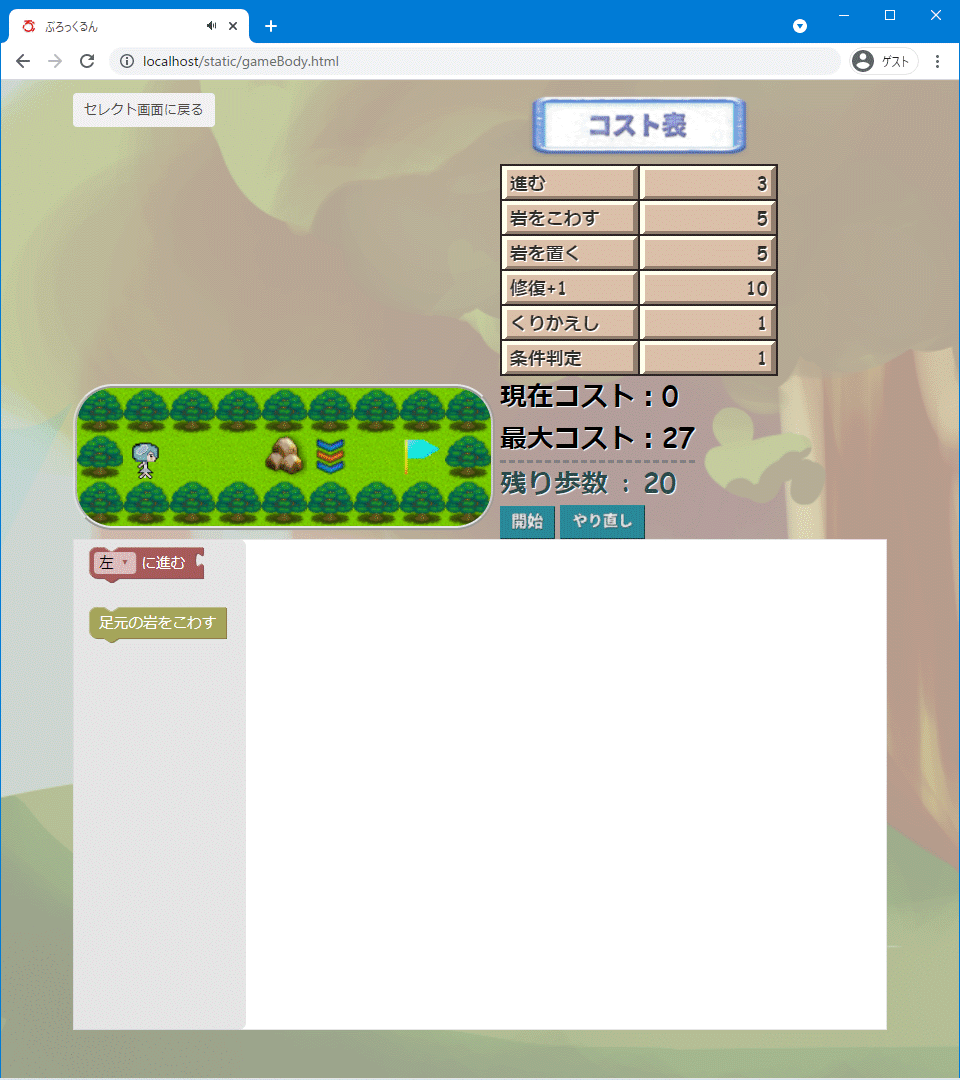
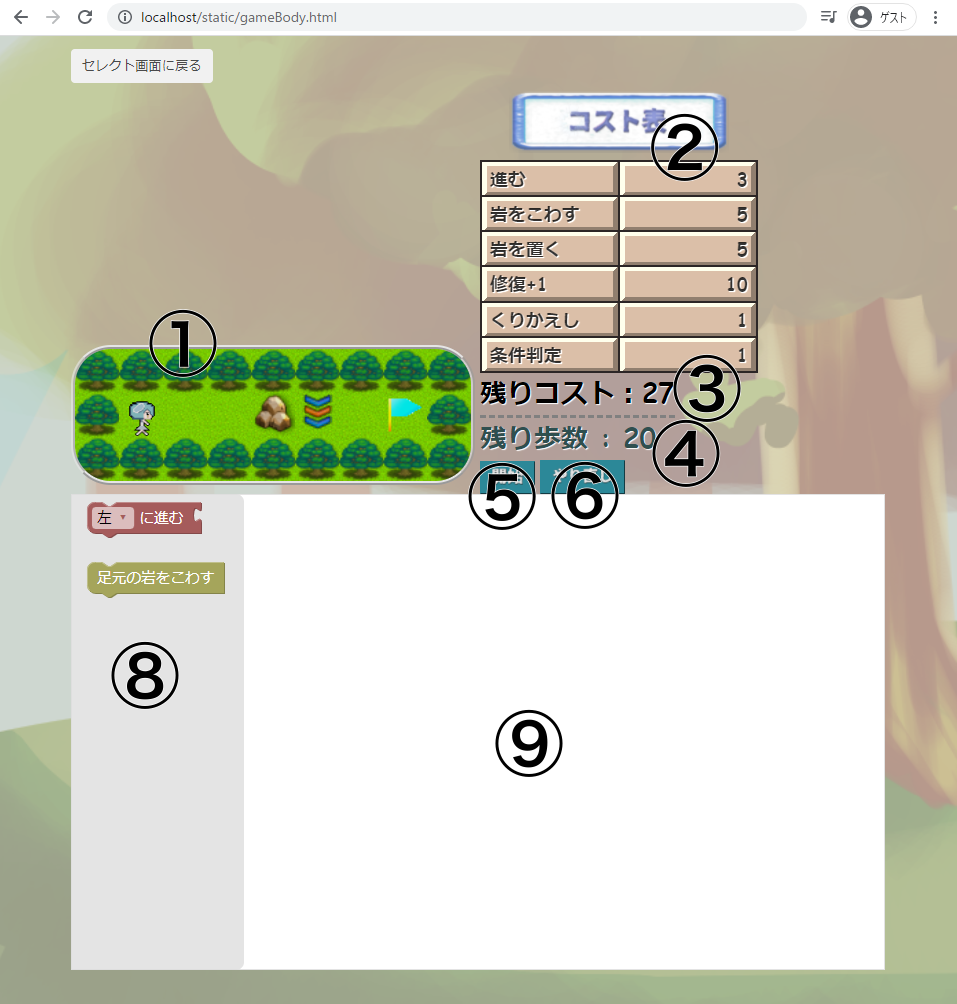
commit

diff --git a/static/basicPlay.html b/static/basicPlay.html
@@ -32,7 +32,7 @@
 <body>
   <h4>基本の遊び方</h4>
   「ぶろっくるん」では、あなたはキャラクターには直接関わることができません。<br>
-  <b>キャラクターがゴールに行けるように、画面上のカーソルをうまく操ってステージを書き換える</b>
+  <b>キャラクターがゴールに行けるように、画面上のカーソルをうまく操ってステージを書きかえる</b>
   真新しいルールのゲームです。
   <hr>
   <h5 id="headList">目次</h5>
@@ -59,9 +59,9 @@
       </span>
     </li>
     <li id="currentcost">
-      現在のコスト<br>
+      残りコスト<br>
       <span class="bitsmall">
-        プログラム (8.) の、今のコストを表示しています。<br>
+        プログラム (8.) の、残りのコストを表示しています。<br>
         プログラムブロックを置いたり消すと、それに応じて計算し直されます。
       </span>
     </li>
@@ -84,7 +84,7 @@
     <li id="restartbutton">
       やり直しボタン<br>
       <span class="bitsmall">
-        カーソルやキャラクターが動いている間に押すと、まだ動いていないときの状態まで戻ります。
+        カーソルやキャラクターが動いている間におすと、まだ動いていないときの状態までもどります。
       </span>
     </li>
     <li id="proglist">
@@ -101,21 +101,21 @@
       </span>
     </li>
   </ol>
-  <button onclick='window.location.href="basicPlay.html#headList"'>目次に戻る</button>
+  <button onclick='window.location.href="basicPlay.html#headList"'>目次にもどる</button>
   <hr>
   <h5 id="mapItems">マップ上にあるもの</h5>
   <table>
     <tbody>
       <tr>
-        <th>名称</th>
+        <th>名しょう</th>
         <th>見た目</th>
-        <th>とくちょう</th>
+        <th>特ちょう</th>
       </tr>
       <tr>
         <td class="bitsmall">カーソル</td>
         <td><img src="help/cursor.png"></td>
         <td class="bitsmall">
-          行く先が木でも床でも、移動できます。<br>
+          行く先が『木』でも『ゆか』でも、移動できます。<br>
           プログラム次第で、岩をこわすことなどもできます。
         </td>
       </tr>
@@ -127,7 +127,7 @@
         </td>
       </tr>
       <tr>
-        <td class="bitsmall">床</td>
+        <td class="bitsmall">ゆか</td>
         <td><img src="img/map02.png"></td>
         <td class="bitsmall">
           キャラクターもこのマスに入れます。<br>
@@ -138,7 +138,7 @@
         <td><img src="img/map01.png"></td>
         <td class="bitsmall">
           キャラクターはこのマスに入れません。<br>
-          カーソルのプログラムでも壊せません。
+          カーソルのプログラムでもこわせません。
         </td>
       </tr>
       <tr>
@@ -162,19 +162,19 @@
         <td><img src="img/spring.png"></td>
         <td class="bitsmall">
           このマスを踏んだキャラクターは、<br>木や岩でも1マスなら飛びこせます。<br>
-          カーソルはバネを踏みません<br>
+          カーソルはバネをふみません<br>
         </td>
       </tr>
     </tbody>
   </table>
-  他にもなんかいろいろあります<br>
-  <button onclick='window.location.href="basicPlay.html#headList"'>目次に戻る</button>
+  他にもなんかいろいろあります…<br>
+  <button onclick='window.location.href="basicPlay.html#headList"'>目次にもどる</button>
   <hr>
   <h5 id="gameFlow">ゲームの流れ</h5>
   <h6>全体の流れ</h6>
   <ol>
     <li>プログラムを作成する</li>
-    <li>開始ボタンを押す</li>
+    <li>開始ボタンをおす</li>
     <li>カーソルがプログラムに従って動く</li>
     <li>キャラクターが動き始める</li>
   </ol>
@@ -184,18 +184,18 @@
     以前に選んだことのないステージでは、真っ白なキャンバスが表示されます。<br>
     左側の<a href="#proglist">プログラムブロックのリスト</a>から、ブロックをひとつ置いてみましょう。<br>
     ブロックをクリックしたまま、<img src="help/body2.png">
-    右側にカーソルを移動してマウスボタンを離します。<img src="help/body3.png">
+    右側にカーソルを移動してマウスボタンをはなします。<img src="help/body3.png">
     これによって、ブロックを1つ置けました。<br>
     <a href="#costlist">コスト表</a>を見てみましょう。「進む」に対応する数は3です。<img src="help/costtable.png"><br>
-    じっさいに、<a href="#currentcost">現在のコスト</a>が0から3になりました。<br><img src="help/costmodified.png"><br>
-    現在のコストが最大のコストを超えない限り、ブロックをいくつでも置くことができます。<br>
+    実際に、<a href="#currentcost">残りコスト</a>が27から24に3減りました。<br><img src="help/costmodified_before.png"> <img src="help/arrow.png"> <img src="help/costmodified_after.png"><br>
+    残りコストがある限り、ブロックをいくつでも置くことができます。<br>
     また、ブロックを置くとき、すでにあるブロックの前後につなげて置くことができます。
   </p>
   <h6>2.開始ボタンを押す</h6>
   <p>
     自分がつくったプログラムでカーソルを動かすには、<a href="#startbutton">開始ボタン</a>を押してください。<br>
     <ul class="bitsmall">
-      <li>プログラムの「現在コスト」が「最大コスト」をこえて、赤色で表示されている</li>
+      <li>プログラムの「残りコスト」の上限をこえ、赤色で表示されている</li>
       <li>繰り返しの回数が合計で50以上になっている</li>
       <li>プログラムブロック「判定する条件」の右上に、条件のプログラムブロックがついていないものがある</li>
     </ul>
@@ -210,7 +210,7 @@
   </p>
   <p>
     カーソルは、プログラムから読み取った指示をそのまま行動に移します。<br>
-    あなたは、カーソルの動きを見ている途中で、作ったプログラムの間違いに気づくかもしれません。<br>
+    あなたは、カーソルの動きを見ているとちゅうで、作ったプログラムの間違いに気づくかもしれません。<br>
     <a href="#restartbutton">やり直しボタン</a>を押すと、カーソルが動き出す前までまき戻ってプログラムを作り直すことが出来ます。
   </p>
   <h6>4.キャラクターが動き始める</h6>
@@ -246,9 +246,8 @@
     <li>
       基本スコア<br>
       <span class="bitsmall">
-        クリア時に、プログラムの最大コスト－現在コストを「残りコスト」とします。<br>
-        クリア時のキャラクターの残り歩数と、プログラムの残りコストを掛け算したものが基本スコアです。<br>
-        この画像の例では、残りコストは (54 - 9) × 24 = 1080 です。<img src="help/prog3stat.png">
+        クリア時のキャラクターの残り歩数と、プログラムの残りコストをかけ算したものが基本スコアです。<br>
+        この画像の例では、基本スコアは 27 × 24 = 648 です。<img src="help/prog3stat.png">
       </span>
     </li>
     <li>
